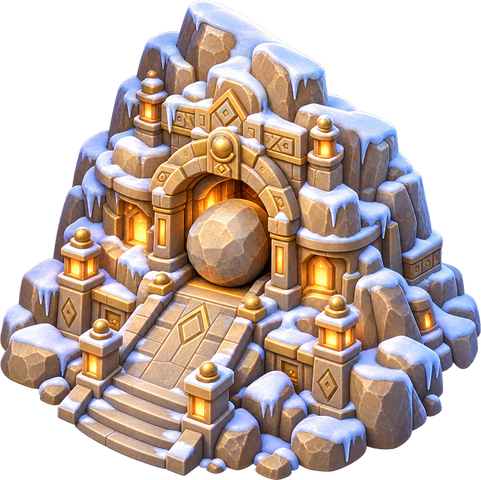
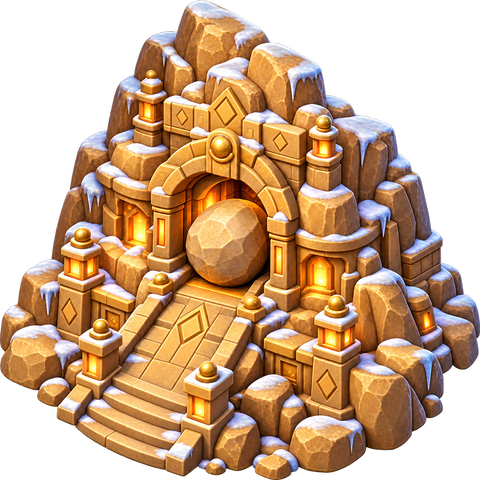
Codex art brief 2: wood, water and earth temple touch-ups; Stillmaker sky eyes in cloud
Wood temple: carved leaf replaces the jade gem. Water: silver pearl replaces the glowing orb.
Earth: ochre gold, less snow, plain diamonds. Sky eyes: Codex's cloud-wrapped eyes, irises
desaturated to the canon's silver-white, title eyes moved up under the tagline and off the boss row.

diff --git a/level1/index.html b/level1/index.html
@@ -71,12 +71,12 @@ button{font:inherit;color:inherit;border:0;background:none;cursor:pointer;paddin
 .rb.red .ribbon{color:var(--coral-2)}
 .fbdemo{position:absolute;inset:0;display:grid;place-items:center;background:#22252E}.fbdemo img{width:100%!important;height:100%!important;max-width:none;object-fit:contain}
 .lu-pips[hidden]{display:none}
-.still-sky{position:absolute;left:50%;aspect-ratio:690/210;translate:-50% 0;pointer-events:none;z-index:0;filter:saturate(.55);
-  -webkit-mask:radial-gradient(ellipse 48% 34% at 50% 42%,#000 30%,transparent 100%);mask:radial-gradient(ellipse 48% 34% at 50% 42%,#000 30%,transparent 100%);animation:stillOpen 2.6s ease-out both,stillDrift 11s 2.6s ease-in-out infinite}
+.still-sky{position:absolute;left:50%;aspect-ratio:1200/346;translate:-50% 0;pointer-events:none;z-index:0;filter:saturate(.55);
+  -webkit-mask:radial-gradient(ellipse 50% 50% at 50% 48%,#000 45%,transparent 100%);mask:radial-gradient(ellipse 50% 50% at 50% 48%,#000 45%,transparent 100%);animation:stillOpen 2.6s ease-out both,stillDrift 11s 2.6s ease-in-out infinite}
 .still-sky::before{content:"";position:absolute;inset:0;background:radial-gradient(ellipse 50% 50%,rgba(6,8,22,.6),rgba(6,8,22,0) 75%)}
-.still-sky i{position:absolute;inset:0;background:url(art4/still/eyes.png?v=1) center/100% 100% no-repeat}
-.still-sky.t{top:calc(134px + env(safe-area-inset-top));width:min(92vw,420px);--o:.42}
-.still-sky.h{top:calc(92px + env(safe-area-inset-top));width:min(66vw,260px);--o:.08}.met-still .still-sky.h{--o:.22}
+.still-sky i{position:absolute;inset:0;background:url(art4/still/eyes.png?v=2) center/100% 100% no-repeat}
+.still-sky.t{top:calc(78px + env(safe-area-inset-top));width:min(96vw,440px);--o:.42}
+.still-sky.h{top:calc(92px + env(safe-area-inset-top));width:min(86vw,338px);--o:.08}.met-still .still-sky.h{--o:.22}
 @keyframes stillOpen{from{opacity:0}to{opacity:var(--o)}}@keyframes stillDrift{0%,100%{opacity:var(--o);translate:-50% 0}50%{opacity:var(--o);translate:-50% 6px}}
 @media (prefers-reduced-motion:reduce){.still-sky{animation:none;opacity:var(--o)}}
 #still{background:#04050A;overflow:hidden}#still .st-bg{position:absolute;inset:0;width:100%;height:100%;object-fit:cover;transition:filter 4s ease}
@@ -2971,7 +2971,7 @@ function scatterProps(w) {
     out.push({ x, y, n:kinds[(Math.random() * kinds.length) | 0], s:rnd(62, 84), d:Math.random() < .5 ? -1 : 1, live:false, pop:0 });
   }
   // each element tower's district grows its own element's plants and things, frozen until its stone is taken
-  if (LVL === 5) for (const Sh of SHRINES) { const k2 = PROPS[Sh.el]; k2.forEach(n => IMG[n] || load(n, `art4/props/${n}.png?v=8`)); IMG['x-temple-' + Sh.el] || load('x-temple-' + Sh.el, `art4/props/x-temple-${Sh.el}.png?v=10`);
+  if (LVL === 5) for (const Sh of SHRINES) { const k2 = PROPS[Sh.el]; k2.forEach(n => IMG[n] || load(n, `art4/props/${n}.png?v=8`)); IMG['x-temple-' + Sh.el] || load('x-temple-' + Sh.el, `art4/props/x-temple-${Sh.el}.png?v=11`);
     for (let i = 0; i < 16; i++) { const a = rnd(0, TAU), d = rnd(170, Sh.R - 40); out.push({ x:Sh.x + Math.cos(a) * d, y:Sh.y + Math.sin(a) * d * .8, n:k2[i % 2], s:rnd(66, 90), d:Math.random() < .5 ? -1 : 1, live:false, pop:0 }); } }
   return out.sort((a, b) => a.y - b.y);
 }
@@ -4790,7 +4790,7 @@ const towersOn = () => /[?&]towers=1/.test(location.search);
 function makeOutposts() {
   const els = ['wood', 'water', 'fire'], hub = { hub:true, el:'wood', x:1800, y:1500, h:560, rx:160, ry:60 };
   const towers = els.map((el, i) => { const a = -Math.PI / 2 + i * TAU / 3; return { el, x:Math.round(1800 + Math.cos(a) * 1000), y:Math.round(1500 + Math.sin(a) * 900), h:340, rx:128, ry:54 }; });
-  els.forEach(el => IMG['x-temple-' + el] || load('x-temple-' + el, `art4/props/x-temple-${el}.png?v=10`));
+  els.forEach(el => IMG['x-temple-' + el] || load('x-temple-' + el, `art4/props/x-temple-${el}.png?v=11`));
   return { hub, towers, els, need:240, march:[] };
 }
 const towerList = () => S.level === 5 ? [TOWER, ...SHRINES] : S && S.out ? [S.out.hub, ...S.out.towers] : [];
